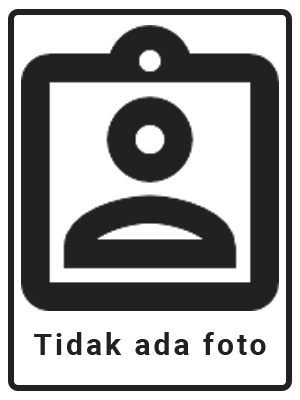
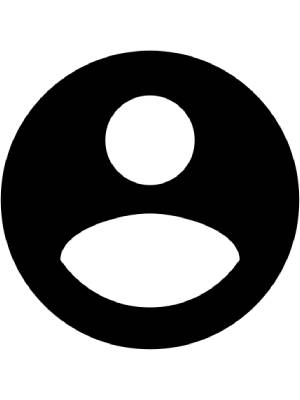
Perbarui Cache Offline Secara Otomatis

diff --git a/resources/js/js.js b/resources/js/js.js
@@ -450,17 +450,6 @@ window.pilCari = function (a) {
     });
 };
 
-window.muatSlimSelect = function (data) {
-    if (!window.SlimSelect) {
-        import('./slimselect-es.js?id=202304042113').then(({ default: SS }) => {
-            window.SlimSelect = SS;
-            new SlimSelect(data);
-        });
-    } else {
-        new SlimSelect(data);
-    };
-};
-
 function urutIsi(a, b) {
     if (a.dataset.indeks < b.dataset.indeks)
         return -1;
@@ -477,34 +466,3 @@ window.urutData = function (a, b) {
         document.querySelector(a).appendChild(e)
     );
 };
-
-(function () {
-    if ('serviceWorker' in navigator && window.location.protocol === 'https:' && window.self == window.top && navigator.onLine) {
-        let updated = false;
-        let activated = false;
-        navigator.serviceWorker.register('service-worker.js')
-            .then(registration => {
-                registration.addEventListener("updatefound", () => {
-                    const worker = registration.installing;
-                    worker.addEventListener('statechange', () => {
-                        console.log({ state: worker.state });
-                        if (worker.state === "activated") {
-                            activated = true;
-                            checkUpdate();
-                        }
-                    });
-                });
-            });
-
-        navigator.serviceWorker.addEventListener('controllerchange', () => {
-            updated = true;
-            checkUpdate();
-        });
-
-        function checkUpdate() {
-            if (activated && updated) {
-                window.location.reload();
-            }
-        }
-    };
-})();

diff --git a/resources/views/rangka.blade.php b/resources/views/rangka.blade.php
@@ -124,6 +124,16 @@
         function ringkasTabel (el) {
             el.previousElementSibling.classList.toggle('ringkas');
         };
+        function muatSlimSelect (data) {
+            if (!window.SlimSelect) {
+                import('{{ $urlRangka->asset($mixRangka('/slimselect-es.js')) }}').then(({ default: SS }) => {
+                    window.SlimSelect = SS;
+                    new SlimSelect(data);
+                });
+            } else {
+                new SlimSelect(data);
+            };
+        };
         window.addEventListener('DOMContentLoaded', function () {
             var tema = document.getElementById('tema'),
                 halaman = document.body,
@@ -138,6 +148,37 @@
             if (location.href == "{{ $urlRangka->route('mulai').'/' }}" && !navigator.onLine) {
                 document.getElementById("isi").innerHTML = "<p class='kartu'>Tidak ada koneksi internet. Periksa koneksi internet lalu muat halaman : <a href='{{ $urlRangka->route('mulai') }}'>Hubungkan Aplikasi</a>.</p>";
             };
+
+            (function () {
+                if ('serviceWorker' in navigator && window.location.protocol === 'https:' && window.self == window.top && navigator.onLine) {
+                    let updated = false;
+                    let activated = false;
+                    navigator.serviceWorker.register('{{ $rekRangka->getBasePath() . '/service-worker.js' }}')
+                        .then(registration => {
+                            registration.addEventListener("updatefound", () => {
+                                const worker = registration.installing;
+                                worker.addEventListener('statechange', () => {
+                                    console.log({ state: worker.state });
+                                    if (worker.state === "activated") {
+                                        activated = true;
+                                        checkUpdate();
+                                    }
+                                });
+                            });
+                        });
+
+                    navigator.serviceWorker.addEventListener('controllerchange', () => {
+                        updated = true;
+                        checkUpdate();
+                    });
+
+                    function checkUpdate() {
+                        if (activated && updated) {
+                            window.location.reload();
+                        }
+                    }
+                };
+            })();
             
             (async() => {
                 while(!window.aplikasiSiap) {

diff --git a/resources/views/sdm/sanksi/data.blade.php b/resources/views/sdm/sanksi/data.blade.php
@@ -239,9 +239,7 @@
                                     <button id="{{ 'aksi_sanksi_baris_' .$tabels->firstItem() + $nomor}}"
                                         title="Pilih Tindakan">
                                         <svg viewbox="0 0 24 24">
-                                            <use
-                                                href="{{ $urlRangka->asset($mixRangka('/ikon.svg')) . '#ikonmenuvert' }}">
-                                            </use>
+                                            <use href="#ikonmenuvert"></use>
                                         </svg>
                                     </button>
                                     <div class="aksi">
@@ -265,7 +263,7 @@
                                         $tabel->sanksi_no_absen . '.webp' . '?' .
                                         filemtime($appRangka->storagePath('app/sdm/foto-profil/' .
                                         $tabel->sanksi_no_absen . '.webp'))]) :
-                                        $urlRangka->asset($mixRangka('/ikon.svg')) . '#ikonakun' }}" alt="{{
+                                        $urlRangka->asset($mixRangka('/images/blank.webp')) }}" alt="{{
                                         $tabel->langgar_tsdm_nama ?? 'foto akun' }}" title="{{
                                         $tabel->langgar_tsdm_nama
                                         ?? 'foto akun' }}" loading="lazy">
@@ -312,7 +310,7 @@
                                         $tabel->langgar_pelapor . '.webp' . '?' .
                                         filemtime($appRangka->storagePath('app/sdm/foto-profil/' .
                                         $tabel->langgar_pelapor . '.webp'))]) :
-                                        $urlRangka->asset($mixRangka('/ikon.svg')) . '#ikonakun' }}" alt="{{
+                                        $urlRangka->asset($mixRangka('/images/blank.webp')) }}" alt="{{
                                         $tabel->langgar_psdm_nama ?? 'foto akun' }}" title="{{
                                         $tabel->langgar_psdm_nama
                                         ?? 'foto akun' }}" loading="lazy">

diff --git a/resources/views/akun.blade.php b/resources/views/akun.blade.php
@@ -13,7 +13,7 @@
                 src="{{ $storageRangka->exists('sdm/foto-profil/' . $akun->sdm_no_absen . '.webp') ?
                 $urlRangka->route('sdm.tautan-foto-profil', ['berkas_foto_profil' => $akun->sdm_no_absen . '.webp' . '?'
                 . filemtime($appRangka->storagePath('app/sdm/foto-profil/' . $akun->sdm_no_absen . '.webp'))]) :
-                $urlRangka->asset($mixRangka('/ikon.svg')) . '#ikonakun' }}" alt="{{ $akun->sdm_nama ?? 'foto akun' }}"
+                $urlRangka->asset($mixRangka('/images/blank.webp')) }}" alt="{{ $akun->sdm_nama ?? 'foto akun' }}"
                 title="{{
                 $akun->sdm_nama ?? 'foto akun' }}" loading="lazy">
             </div>
@@ -35,7 +35,7 @@
                         '.webp' .
                         '?' . filemtime($appRangka->storagePath('app/sdm/foto-profil/' . $akun->sdm_id_atasan .
                         '.webp'))]) :
-                        $urlRangka->asset($mixRangka('/ikon.svg')) . '#ikonakun' }}" alt="{{
+                        $urlRangka->asset($mixRangka('/images/blank.webp')) }}" alt="{{
                         $akun->nama_atasan ?? 'foto akun' }}" title="{{ $akun->nama_atasan ?? 'foto akun' }}"
                         loading="lazy">
                     </a>
@@ -347,7 +347,7 @@
                             . '.webp' .
                             '?' . filemtime($appRangka->storagePath('app/sdm/foto-profil/' . $personil->sdm_no_absen .
                             '.webp'))]) :
-                            $urlRangka->asset($mixRangka('/ikon.svg')) . '#ikonakun' }}" alt="{{
+                            $urlRangka->asset($mixRangka('/images/blank.webp')) }}" alt="{{
                             $personil->sdm_nama ?? 'foto akun' }}" title="{{ $personil->sdm_nama ?? 'foto akun' }}"
                             loading="lazy">
                         </a>

diff --git a/resources/views/sdm/penempatan/riwayat.blade.php b/resources/views/sdm/penempatan/riwayat.blade.php
@@ -421,9 +421,7 @@
                                         id="{{'aksi_penempatan_baris_' . rescue(function () use ($tabels, $nomor) { return ($tabels->firstItem() + $nomor);}, $loop->iteration, false) }}"
                                         title="Pilih Tindakan">
                                         <svg viewbox="0 0 24 24">
-                                            <use
-                                                href="{{ $urlRangka->asset($mixRangka('/ikon.svg')) . '#ikonmenuvert' }}">
-                                            </use>
+                                            <use href="#ikonmenuvert"></use>
                                         </svg>
                                     </button>
 
@@ -458,7 +456,7 @@
                                     . $tabel->sdm_no_absen . '.webp') ? $urlRangka->route('sdm.tautan-foto-profil',
                                     ['berkas_foto_profil' => $tabel->sdm_no_absen . '.webp' . '?' .
                                     filemtime($appRangka->storagePath('app/sdm/foto-profil/' . $tabel->sdm_no_absen .
-                                    '.webp'))]) : $urlRangka->asset($mixRangka('/ikon.svg')) . '#ikonakun' }}" alt="{{
+                                    '.webp'))]) : $urlRangka->asset($mixRangka('/images/blank.webp')) }}" alt="{{
                                     $tabel->sdm_nama
                                     ?? 'foto akun' }}" title="{{ $tabel->sdm_nama ?? 'foto akun' }}" loading="lazy">
                                 </a>

diff --git a/resources/views/sdm/papan-informasi/pelanggaran.blade.php b/resources/views/sdm/papan-informasi/pelanggaran.blade.php
@@ -58,7 +58,7 @@
                                     $pelanggaran->langgar_no_absen . '.webp' . '?' .
                                     filemtime($appRangka->storagePath('app/sdm/foto-profil/' .
                                     $pelanggaran->langgar_no_absen . '.webp'))]) :
-                                    $urlRangka->asset($mixRangka('/ikon.svg')) . '#ikonakun' }}" alt="{{
+                                    $urlRangka->asset($mixRangka('/images/blank.webp')) }}" alt="{{
                                     $pelanggaran->langgar_tsdm_nama ?? 'foto akun' }}" title="{{
                                     $pelanggaran->langgar_tsdm_nama
                                     ?? 'foto akun' }}" loading="lazy">
@@ -82,7 +82,7 @@
                                     $pelanggaran->langgar_pelapor . '.webp' . '?' .
                                     filemtime($appRangka->storagePath('app/sdm/foto-profil/' .
                                     $pelanggaran->langgar_pelapor . '.webp'))]) :
-                                    $urlRangka->asset($mixRangka('/ikon.svg')) . '#ikonakun' }}" alt="{{
+                                    $urlRangka->asset($mixRangka('/images/blank.webp')) }}" alt="{{
                                     $pelanggaran->langgar_psdm_nama ?? 'foto akun' }}" title="{{
                                     $pelanggaran->langgar_psdm_nama
                                     ?? 'foto akun' }}" loading="lazy">

diff --git a/resources/views/sdm/papan-informasi/pkwt-perlu-ditinjau.blade.php b/resources/views/sdm/papan-informasi/pkwt-perlu-ditinjau.blade.php
@@ -29,9 +29,7 @@
                                     <div class="pil-aksi">
                                         <button id="{{'aksi_pkwt_baris_' . $loop->iteration}}" title="Pilih Tindakan">
                                             <svg viewbox="0 0 24 24">
-                                                <use
-                                                    href="{{ $urlRangka->asset($mixRangka('/ikon.svg')) . '#ikonmenuvert' }}">
-                                                </use>
+                                                <use href="#ikonmenuvert"></use>
                                             </svg>
                                         </button>
 
@@ -65,7 +63,7 @@
                                         ['berkas_foto_profil' => $kontrak->sdm_no_absen . '.webp' . '?' .
                                         filemtime($appRangka->storagePath('app/sdm/foto-profil/' .
                                         $kontrak->sdm_no_absen . '.webp')), false])
-                                        : $urlRangka->asset($mixRangka('/ikon.svg')) . '#ikonakun' }}" alt="{{
+                                        : $urlRangka->asset($mixRangka('/images/blank.webp')) }}" alt="{{
                                         $kontrak->sdm_nama ?? 'foto akun' }}" title="{{ $kontrak->sdm_nama ??
                                         'foto
                                         akun'

diff --git a/resources/views/sdm/papan-informasi/sanksi.blade.php b/resources/views/sdm/papan-informasi/sanksi.blade.php
@@ -55,7 +55,7 @@
                                     $sanksi->sanksi_no_absen . '.webp' . '?' .
                                     filemtime($appRangka->storagePath('app/sdm/foto-profil/' .
                                     $sanksi->sanksi_no_absen . '.webp'))]) :
-                                    $urlRangka->asset($mixRangka('/ikon.svg')) . '#ikonakun' }}" alt="{{
+                                    $urlRangka->asset($mixRangka('/images/blank.webp')) }}" alt="{{
                                     $sanksi->langgar_tsdm_nama ?? 'foto akun' }}" title="{{
                                     $sanksi->langgar_tsdm_nama
                                     ?? 'foto akun' }}" loading="lazy">
@@ -104,7 +104,7 @@
                                     $sanksi->langgar_pelapor . '.webp' . '?' .
                                     filemtime($appRangka->storagePath('app/sdm/foto-profil/' .
                                     $sanksi->langgar_pelapor . '.webp'))]) :
-                                    $urlRangka->asset($mixRangka('/ikon.svg')) . '#ikonakun' }}" alt="{{
+                                    $urlRangka->asset($mixRangka('/images/blank.webp')) }}" alt="{{
                                     $sanksi->langgar_psdm_nama ?? 'foto akun' }}" title="{{
                                     $sanksi->langgar_psdm_nama
                                     ?? 'foto akun' }}" loading="lazy">

diff --git a/resources/views/sdm/pelanggaran/data.blade.php b/resources/views/sdm/pelanggaran/data.blade.php
@@ -258,7 +258,7 @@
                                     $tabel->langgar_no_absen . '.webp' . '?' .
                                     filemtime($appRangka->storagePath('app/sdm/foto-profil/' .
                                     $tabel->langgar_no_absen . '.webp'))]) :
-                                    $urlRangka->asset($mixRangka('/ikon.svg')) . '#ikonakun' }}" alt="{{
+                                    $urlRangka->asset($mixRangka('/images/blank.webp')) }}" alt="{{
                                     $tabel->langgar_tsdm_nama ?? 'foto akun' }}" title="{{
                                     $tabel->langgar_tsdm_nama
                                     ?? 'foto akun' }}" loading="lazy">
@@ -281,7 +281,7 @@
                                     $tabel->langgar_pelapor . '.webp' . '?' .
                                     filemtime($appRangka->storagePath('app/sdm/foto-profil/' .
                                     $tabel->langgar_pelapor . '.webp'))]) :
-                                    $urlRangka->asset($mixRangka('/ikon.svg')) . '#ikonakun' }}" alt="{{
+                                    $urlRangka->asset($mixRangka('/images/blank.webp')) }}" alt="{{
                                     $tabel->langgar_psdm_nama ?? 'foto akun' }}" title="{{
                                     $tabel->langgar_psdm_nama
                                     ?? 'foto akun' }}" loading="lazy">

diff --git a/resources/views/sdm/permintaan-tambah-sdm/data.blade.php b/resources/views/sdm/permintaan-tambah-sdm/data.blade.php
@@ -304,7 +304,7 @@
                                     $urlRangka->route('sdm.tautan-foto-profil', ['berkas_foto_profil' =>
                                     $tabel->tambahsdm_sdm_id . '.webp' . '?' .
                                     filemtime($appRangka->storagePath('app/sdm/foto-profil/' . $tabel->tambahsdm_sdm_id
-                                    . '.webp'))]) : $urlRangka->asset($mixRangka('/ikon.svg')) . '#ikonakun' }}" alt="{{
+                                    . '.webp'))]) : $urlRangka->asset($mixRangka('/images/blank.webp')) }}" alt="{{
                                     $tabel->sdm_nama ??
                                     'foto akun' }}" title="{{ $tabel->sdm_nama ?? 'foto akun' }}" loading="lazy">
                                 </a>

diff --git a/resources/views/tambah-ubah-akun.blade.php b/resources/views/tambah-ubah-akun.blade.php
@@ -12,7 +12,7 @@
             null) . '.webp') ? $urlRangka->route('sdm.tautan-foto-profil', ['berkas_foto_profil' =>
             $rekRangka->old('sdm_no_absen', $sdm->sdm_no_absen ?? null) . '.webp' . '?' .
             filemtime($appRangka->storagePath('app/sdm/foto-profil/' . $rekRangka->old('sdm_no_absen',
-            $sdm->sdm_no_absen ?? null) . '.webp'))]) : $urlRangka->asset($mixRangka('/ikon.svg')) . '#ikonakun' }}"
+            $sdm->sdm_no_absen ?? null) . '.webp'))]) : $urlRangka->asset($mixRangka('/images/blank.webp')) }}"
             alt="{{
             $rekRangka->old('sdm_no_absen', $sdm->sdm_nama ?? 'foto akun') }}" title="{{ $rekRangka->old('sdm_no_absen',
             $sdm->sdm_nama ?? 'foto akun') }}" loading="lazy">

diff --git a/resources/views/sdm/papan-informasi/permintaan-tambah-sdm.blade.php b/resources/views/sdm/papan-informasi/permintaan-tambah-sdm.blade.php
@@ -56,7 +56,7 @@
                                 ['berkas_foto_profil' => $perminSDM->tambahsdm_sdm_id . '.webp' . '?' .
                                 filemtime($appRangka->storagePath('app/sdm/foto-profil/' . $perminSDM->tambahsdm_sdm_id
                                 . '.webp')), false]) :
-                                $urlRangka->asset($mixRangka('/ikon.svg')) . '#ikonakun' }}" alt="{{
+                                $urlRangka->asset($mixRangka('/images/blank.webp')) }}" alt="{{
                                 $perminSDM->sdm_nama ?? 'foto akun' }}" title="{{ $perminSDM->sdm_nama ?? 'foto akun'
                                 }}"
                                 loading="lazy">
